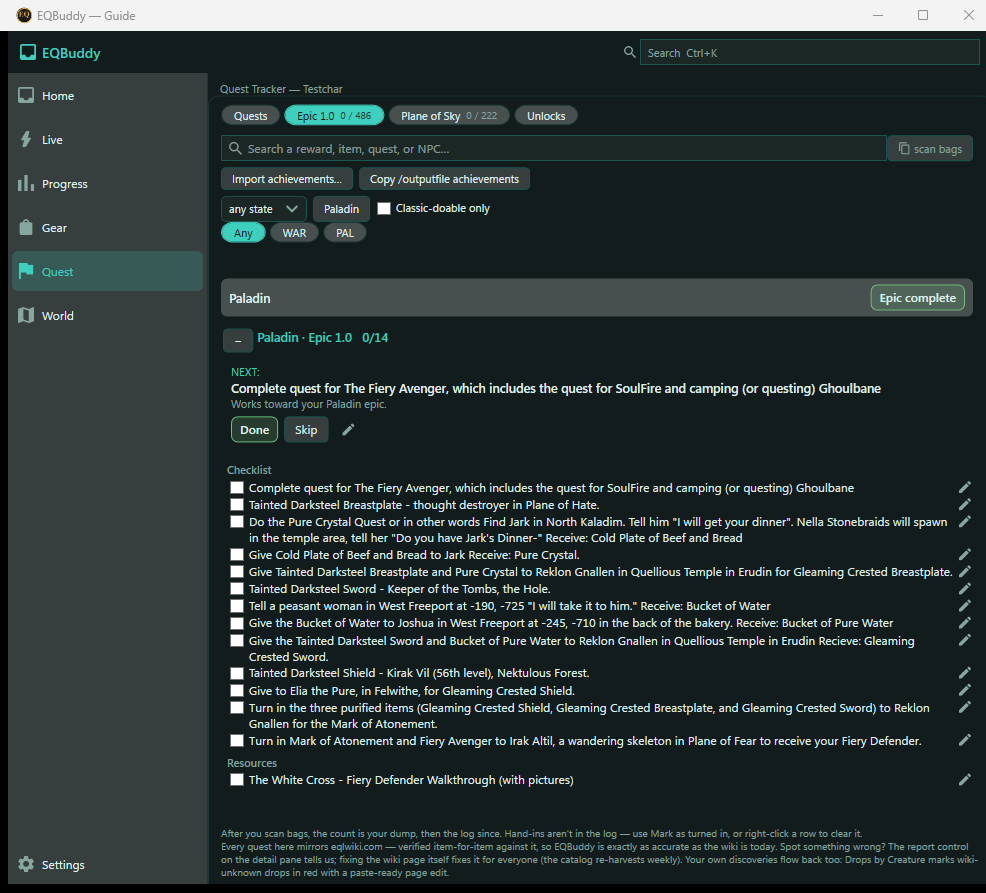
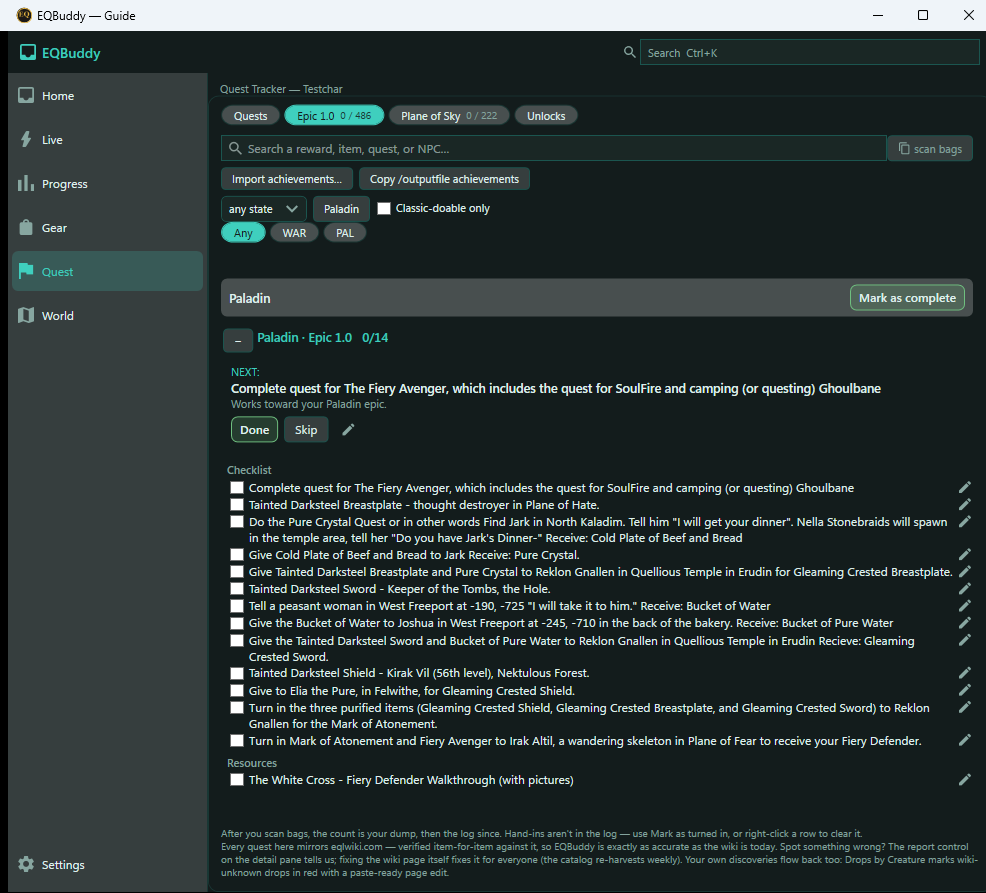
epic: the master button says "Mark as complete", not "Epic complete" (DRA-59)
Founder smoke 2026-09-11 ~3:08 PM CT via Helm: the Epic tab's green primary
button read "Epic complete" on a class band whose progress row said
Bard 0/31 / Warrior 3/30. A state word on a green button beside a 0/31 count
reads as a badge asserting the epic WAS complete; it is an OFFER to mark it
complete. Sky's twin never had the bug because "Mark turned in" was already an
imperative — this is the same grammar.

The verb is the whole fix. The green-as-primary styling stays (the not-yet
state needs the primary colour too), and the real state stays where it already
was, on the heading line under the band.

The confirmation dialog's caption went with it, by READING the label rather
than repeating it: QuestsView passed the literal "Epic complete" as the
MessageBox caption, so a player clicking the fixed button would still have got
a window titled with the state word — one fact, two sources (trap 4).

The rule is executable rather than a pinned string, because a test asserting
the new label proves the smoke was answered once and cannot see the NEXT master
button that ships a state word: EpicCompleteToggle.LabelIsAnAct holds both
checklists to an imperative, with four status-shaped negatives so it cannot go
vacuous (trap 34). Prove-failed — restoring "Epic complete" reddens
NeitherMasterButtonNamesAStateItCannotBeIn and TheEpicMasterButtonSaysMarkAsComplete.

epic-checklist-classes was ALREADY the defect staged — a green Warrior band
[…]

Changed region(s): [[0.0, 0.9675, 1.0, 1.0], [0.8519, 0.3326, 0.9128, 0.3628], [0.0609, 0.0, 0.0913, 0.0302]]

diff --git a/tests/EQBuddy.Tests/EpicCompleteWritePathTests.cs b/tests/EQBuddy.Tests/EpicCompleteWritePathTests.cs
@@ -180,4 +180,45 @@ public class EpicCompleteWritePathTests
         // days and this one for three. They say the same word for the same act.
         Assert.Equal(SkyCompleteToggle.ButtonLabel(true), EpicCompleteToggle.ButtonLabel(true));
     }
+
+    /// <summary>Founder smoke, 2026-09-11: the Epic band's green primary button said
+    /// "Epic complete" over a progress row reading Bard 0/31 and Warrior 3/30, and it read
+    /// as a badge asserting the epic WAS complete. A master button's not-yet label must
+    /// name the ACT — the styling stays green-as-primary, and the real state stays on the
+    /// progress row, so the verb is the only thing carrying the difference.
+    ///
+    /// Prove-failed against the shipped label: restoring "Epic complete" fails
+    /// <c>NeitherMasterButtonNamesAStateItCannotBeIn</c> on the Epic row (and would fail on
+    /// Sky the day someone shortens "Mark turned in" to "Turned in").</summary>
+    [Theory]
+    [InlineData("Epic complete")]   // the label the smoke caught
+    [InlineData("Turned in")]       // the same mistake, Sky-shaped
+    [InlineData("Complete")]
+    [InlineData("Done")]
+    public void AStateWordIsNotAnAct(string statusShaped) =>
+        Assert.False(EpicCompleteToggle.LabelIsAnAct(statusShaped));
+
+    [Theory]
+    [InlineData("Mark as complete")]
+    [InlineData("Mark turned in")]
+    public void AnImperativeIsAnAct(string verbShaped) =>
+        Assert.True(EpicCompleteToggle.LabelIsAnAct(verbShaped));
+
+    [Fact]
+    public void NeitherMasterButtonNamesAStateItCannotBeIn()
+    {
+        // Both checklists, one rule — the next master button to appear inherits it rather
+        // than re-deciding it, which is the half "one vocabulary" above never asserted.
+        Assert.True(EpicCompleteToggle.LabelIsAnAct(EpicCompleteToggle.ButtonLabel(completed: false)));
+        Assert.True(EpicCompleteToggle.LabelIsAnAct(SkyCompleteToggle.ButtonLabel(completed: false)));
+    }
+
+    [Fact]
+    public void TheEpicMasterButtonSaysMarkAsComplete()
+    {
+        // The exact words, pinned: the shot predictions in scripts/shoot.ps1 and the
+        // What's-new "X is now Y" line both quote this string.
+        Assert.Equal("Mark as complete", EpicCompleteToggle.ButtonLabel(completed: false));
+        Assert.Equal("Reopen", EpicCompleteToggle.ButtonLabel(completed: true));
+    }
 }

diff --git a/src/EQBuddy.UI.Shared/EpicCompleteToggle.cs b/src/EQBuddy.UI.Shared/EpicCompleteToggle.cs
@@ -82,9 +82,29 @@ public static class EpicCompleteToggle
     ];
 
     /// <summary>What the control says, matching <see cref="SkyCompleteToggle.ButtonLabel"/>
-    /// so the two checklists offer one vocabulary.</summary>
+    /// so the two checklists offer one vocabulary.
+    ///
+    /// **"Epic complete" until the Founder smoke of 2026-09-11.** A green primary button
+    /// reading "Epic complete" is a STATUS, not an act: on a class band showing Bard 0/31
+    /// and Warrior 3/30 it read as a badge claiming the epic WAS complete, next to a
+    /// progress row saying it plainly was not. The label a control carries has to name
+    /// what the CLICK does, because the button's colour cannot — and the green here is
+    /// the primary-action green, which the not-yet state needs too. Sky's twin never had
+    /// the bug because "Mark turned in" was already a verb; this is the same grammar
+    /// (<see cref="LabelIsAnAct"/> now holds both to it).</summary>
     public static string ButtonLabel(bool completed) =>
-        completed ? "Reopen" : "Epic complete";
+        completed ? "Reopen" : "Mark as complete";
+
+    /// <summary>The rule the 2026-09-11 smoke bought, executable: a checklist's
+    /// not-yet-done master button says what the CLICK does. "Mark …" is an imperative a
+    /// player reads as an offer; "Epic complete" / "Turned in" is a state a player reads
+    /// as a verdict — and on a green button beside a 0/31 progress row, the wrong one of
+    /// those two wins. Applied to both checklists by
+    /// <c>EpicCompleteWritePathTests.NeitherMasterButtonNamesAStateItCannotBeIn</c>, which
+    /// is why this predicate lives here rather than in the test: the next checklist to
+    /// grow a master button gets the rule for free.</summary>
+    public static bool LabelIsAnAct(string label) =>
+        label.StartsWith("Mark ", StringComparison.Ordinal);
 
     /// <summary>The confirmation a view must ask before a bulk flip, or null when nothing
     /// would be overwritten — every row already ticked by hand means no dialog. The views

diff --git a/src/EQBuddy/QuestsView.xaml.cs b/src/EQBuddy/QuestsView.xaml.cs
@@ -2374,8 +2374,10 @@ public partial class QuestsView : UserControl
         return block;
     }
 
-    /// <summary>The Epic tab's per-class band: the class name and the "Epic complete"
-    /// master check (#138 aodgizmo, restored for #210).
+    /// <summary>The Epic tab's per-class band: the class name and the "Mark as complete"
+    /// master check (#138 aodgizmo, restored for #210; the label was "Epic complete" until
+    /// the 2026-09-11 Founder smoke read it as a done-badge — <see
+    /// cref="EpicCompleteToggle.ButtonLabel"/>).
     ///
     /// It sits at class level and not on a section heading because epic completion IS per
     /// class — <see cref="AppSettings.EpicQuestCompleted"/> is keyed by class name, and a
@@ -2442,10 +2444,15 @@ public partial class QuestsView : UserControl
             var prompt2 = EpicCompleteToggle.ConfirmPrompt(className, items);
             if (prompt2 is { } prompt)
             {
+                // The caption is the LABEL OF THE BUTTON THAT OPENED IT, read from the
+                // one producer rather than repeated as a literal (trap 4) — a dialog
+                // titled with the old state word was the second place "Epic complete"
+                // claimed to be a status the 2026-09-11 smoke found it was not.
+                var caption = EpicCompleteToggle.ButtonLabel(completed: false);
                 var answer = Window.GetWindow(this) is { } owner
-                    ? MessageBox.Show(owner, prompt, "Epic complete",
+                    ? MessageBox.Show(owner, prompt, caption,
                         MessageBoxButton.OKCancel, MessageBoxImage.Question)
-                    : MessageBox.Show(prompt, "Epic complete",
+                    : MessageBox.Show(prompt, caption,
                         MessageBoxButton.OKCancel, MessageBoxImage.Question);
                 if (answer != MessageBoxResult.OK) return;
             }

diff --git a/src/EQBuddy.UI.Shared/SkyCompleteToggle.cs b/src/EQBuddy.UI.Shared/SkyCompleteToggle.cs
@@ -79,7 +79,9 @@ public static class SkyCompleteToggle
         settings.SkyQuestCompleted.Contains(rewardKey, StringComparer.OrdinalIgnoreCase);
 
     /// <summary>What the control says. A reward you hold every piece of invites the
-    /// turn-in; one you have turned in offers the way back.</summary>
+    /// turn-in; one you have turned in offers the way back. The not-yet half is an
+    /// IMPERATIVE and has to stay one — see <see cref="EpicCompleteToggle.LabelIsAnAct"/>
+    /// for what the status-shaped version of this cost on the Epic band.</summary>
     public static string ButtonLabel(bool completed) =>
         completed ? "Reopen" : "Mark turned in";
 }

diff --git a/docs/TestPlan.md b/docs/TestPlan.md
@@ -304,7 +304,8 @@ where each of its assertions went.
 | Sky is ordered by ACTIONABILITY within a class: ready, then closest-to-done, then untouched, with the turned-in sunk to the bottom | **Auto** — `QuestChecklistStateTests` |
 | The Ready band lists every all-pieces-in-hand reward across EVERY class, names its NPC, and is absent when nothing is ready | **Auto** — `QuestChecklistStateTests`; **Shot** — `shoot.ps1 -Shot sky-checklist` |
 | Per-class D / R / P counts are drawn, and D+R+P deliberately does not sum to the total | **Auto** — `QuestChecklistStateTests`; **Shot** — `shoot.ps1 -Shot sky-checklist` |
-| "Epic complete" WRITES `EpicQuestCompleted`, snapshots what it overwrites, and Reopen restores the player's own ticks. **It is per CLASS and never per section** — which is why it rides its own band rather than a group heading the way the Sky turn-in does, and why guiding the tab (one group per class instead of one per section) did not move it | **Auto** — `EpicCompleteWritePathTests`, `EpicGuideTests.MarkingAClassEpicCompleteFinishesItsGuide`; **Shot** — `shoot.ps1 -Shot epic-checklist-classes` (two bands, two folded headings) |
+| "Mark as complete" WRITES `EpicQuestCompleted`, snapshots what it overwrites, and Reopen restores the player's own ticks. **It is per CLASS and never per section** — which is why it rides its own band rather than a group heading the way the Sky turn-in does, and why guiding the tab (one group per class instead of one per section) did not move it | **Auto** — `EpicCompleteWritePathTests`, `EpicGuideTests.MarkingAClassEpicCompleteFinishesItsGuide`; **Shot** — `shoot.ps1 -Shot epic-checklist-classes` (two bands, two folded headings) |
+| **A master button's not-yet label names the ACT, never the state** (Founder smoke 2026-09-11, DRA-59). "Epic complete" on a green primary button over a `Bard 0/31` progress row read as a badge asserting the epic WAS complete; it is `Mark as complete` now, one grammar with Sky's `Mark turned in`. The green-as-primary styling and the progress row that carries the real state are both deliberately unchanged — the verb is the whole fix, and the confirmation dialog's caption reads the same producer rather than repeating the literal (trap 4) | **Auto** — `EpicCompleteWritePathTests.NeitherMasterButtonNamesAStateItCannotBeIn` (both checklists through `EpicCompleteToggle.LabelIsAnAct`), `…TheEpicMasterButtonSaysMarkAsComplete`, and `AStateWordIsNotAnAct` over the four status-shaped labels — **prove-failed** by restoring `"Epic complete"`, which reddens the first two; **Shot** — `shoot.ps1 -Shot epic-checklist-classes`, whose recipe stages the smoke defect itself (green band + `Warrior · Epic 1.0 0/30`) |
 | While a class's epic is complete its rows are locked **and look locked** — the undo restores a snapshot, so a tick made meanwhile would be discarded. Dimmed as well as disabled: the CheckBox style carries no disabled visual, so `IsEnabled` alone reads as live and silently ignores clicks (trap 17) | **Auto** — `EpicCompleteWritePathTests`; **Shot** — `shoot.ps1 -Shot epic-checklist`. **The frame SPLIT on 2026-09-11**: a guided class is one tall group where the classic tab drew short sections, so a frame expanded far enough to show the locked rows no longer had room for the second class's band — one picture could no longer carry both claims, and a picture that stops showing what its recipe says is trap 22's other half |
 | A clickable inline icon responds across its whole square, not only where the vector is painted | **Manual** — Loot card, click the gap inside the green quest marker (#211) |
 | The class-filter button face never grows with the selection, so the mode strip stays on screen | **Auto** — `ClassFilterLabelTests` |

diff --git a/DECISIONS.md b/DECISIONS.md
@@ -1,3 +1,46 @@
+## 2026-09-11 (DRA-59 — the Epic band's button verb; the calls I made alone)
+
+Founder smoke ~3:08 PM CT via Helm: the Epic tab's green button read "Epic complete" over a
+class band showing `Bard 0/31` and `Warrior 3/30`, so it looked like a badge asserting the
+epic WAS complete. The card names the fix (**"Mark as complete"**) and three Soft LEAVEs —
+green-as-done styling, per-state status chips, DRA-47 Pages. All three left alone. These are
+the places the card left a choice.
+
+**1. THE CONFIRMATION DIALOG'S CAPTION CHANGED TOO, BY READING THE BUTTON'S LABEL.** The card
+names the button; `QuestsView.ToggleEpicComplete` also passed the literal `"Epic complete"`
+as the `MessageBox` caption, so a player clicking the fixed button still got a window titled
+with the state word. That is the same defect at one remove, and it was a SECOND literal of
+the same string (trap 4) — the caption now reads `EpicCompleteToggle.ButtonLabel(false)`, so
+the next rewording moves both. **The default it could have gone the other way on:** ship the
+button only and file the caption, on the grounds that the card said "button". Rejected: the
+dialog is the same control's own confirmation, the fix is one line, and filing it would have
+left the smoke's exact complaint alive on the surface the button opens. **Not** a licence to
+rewrite dialog copy generally — the caption is quoting the button, nothing more.
+
+**2. THE RULE IS AN EXECUTABLE PREDICATE, NOT A PINNED STRING.** A test asserting
+`"Mark as complete"` proves the smoke was answered once; it cannot see the NEXT master button
+that ships a state word. `EpicCompleteToggle.LabelIsAnAct` holds both checklists to an
+imperative and `NeitherMasterButtonNamesAStateItCannotBeIn` applies it to Epic AND Sky, with
+`AStateWordIsNotAnAct` over the four status-shaped labels so the predicate cannot go vacuous
+(trap 34: a guard that only ever sees the right answer is not a guard). Prove-failed by
+restoring `"Epic complete"` — two tests redden, then green again. The exact-string test stays
+beside it because the shot predictions and the What's-new "X is now Y" line quote it.
+**The default it could have gone the other way on:** one `Assert.Equal` on the new label.
+
+**3. THE SHOT RECIPE NOW SAYS IT IS THE DEFECT, STAGED.** `epic-checklist-classes` already
+stood Warrior's band (green, `0/30`) beside Cleric's completed one — which is exactly the
+pair the Founder read wrong, and nobody had noticed the frame was carrying it. The recipe
+comment says so now, so the next person re-shooting it knows which claim the picture is for.
+Re-shot and reviewed against the prediction (trap 23): "Cleric"/"Reopen" over `0/20`, then
+"Warrior"/"Mark as complete" over `0/30`. `shell-quests-epic-guide` re-shot for the same
+label on the Paladin band.
+
+**4. NO STATUS CHIP, NO STYLING CHANGE.** Both are the card's Soft LEAVEs and I agree with
+them on the evidence: the heading line under each band already carries the real state
+(`Warrior · Epic 1.0  0/30`), and a chip would be a second producer of a fact that row
+already owns (trap 4). Filed nothing for Bevel — the verb is enough until a smoke says
+otherwise.
+
 ## 2026-09-11 (DRA-46 Delivery 2 N2 — harvested guides on the General tab; the calls I made alone)
 
 Bosun kick 2026-09-11 ~11:07 AM CT, after DRA-45 N1 landed (#534/#535). Fable's §3 N2 is the
